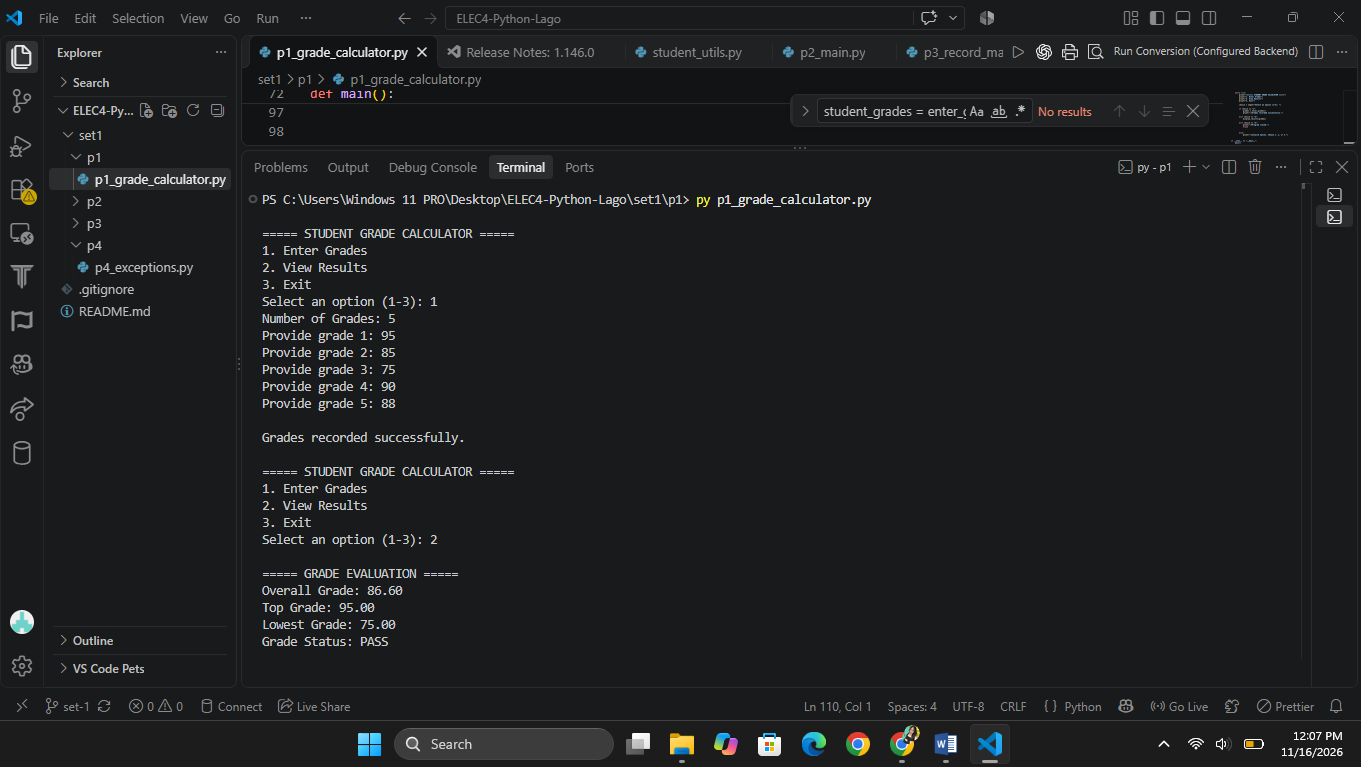
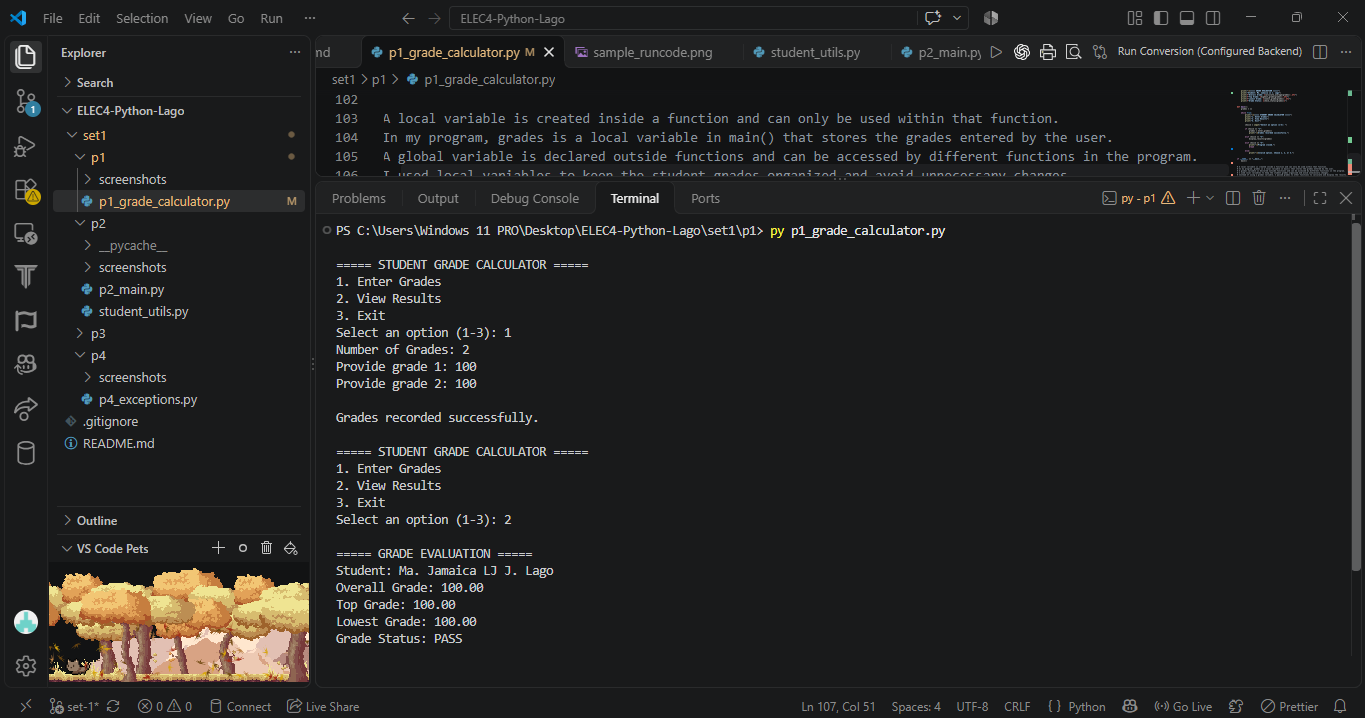
Set 1: finalize Python activity fixes and screenshots

diff --git a/set1/p3/p3_record_manager.py b/set1/p3/p3_record_manager.py
@@ -1,6 +1,7 @@
-
+# Name: Ma. Jamaica LJ J. Lago
+# Section: IV-BSIT A
 # Activity: P3 - Student Record Manager
-# Commit 2: Add Students and Prevent Duplicates
+# Date: November 19, 2026
 
 # List for storing student names
 students = []
@@ -49,7 +50,6 @@ def remove_student():
             return
 
 
-
 # Function to search for a student
 def search_student():
     search = " ".join(input("Enter student name to search: ").split()).casefold()
@@ -65,6 +65,7 @@ def search_student():
             matches.append(name)
 
     print("\n===== SEARCH RESULTS =====")
+    print("Program by: Ma. Jamaica LJ J. Lago")
 
     if len(matches) == 0:
         print("No matching students found.")
@@ -75,7 +76,6 @@ def search_student():
             print(f"{number}. {name}")
 
     print(f"Total Matches: {len(matches)}")
-
 
 
 # Function to display all students
@@ -91,7 +91,6 @@ def display_students():
             print(f"{number}. {name}")
 
     print(f"Total Students: {len(students)}")
-
 
 
 # Main menu function
@@ -135,4 +134,3 @@ if __name__ == "__main__":
 # In this program, I used a list to store and display student names.
 # I used a set to prevent duplicate names regardless of capitalization.
 # Both collections help manage student records efficiently.
-

diff --git a/set1/p4/p4_exceptions.py b/set1/p4/p4_exceptions.py
@@ -1,11 +1,12 @@
-
-# Activity: P4 - Safe Menu Program
-# Student: Ma. Jamaica LJ J. Lago
+# Name: Ma. Jamaica LJ J. Lago
 # Section: IV-BSIT A
-# Date: November 16, 2026
+# Activity: P4 - Safe Menu Program
+# Date: November 19, 2026
+
 
 def show_menu():
     print("\n===== SAFE MENU PROGRAM =====")
+    print("Student: Ma. Jamaica LJ J. Lago")
     print("1. Divide Two Numbers")
     print("2. Open a File")
     print("3. Exit")
@@ -17,7 +18,6 @@ def divide_numbers():
     try:
         num1 = float(input("Enter first number: "))
         num2 = float(input("Enter second number: "))
-
         result = num1 / num2
 
     except ValueError:
@@ -44,13 +44,16 @@ def open_file():
     except FileNotFoundError:
         print("Error: The specified file was not found.")
 
+    except (OSError, ValueError):
+        print("Error: Unable to read the specified file.")
+
     else:
         print("\n===== FILE CONTENT =====")
         print(content)
         print("========================")
 
     finally:
-        print("File operation completed.")
+        print("File read attempt finished.")
 
 
 # Main function for the menu-driven program

diff --git a/set1/p2/p2_main.py b/set1/p2/p2_main.py
@@ -1,11 +1,12 @@
-
-# Activity P2 - Custom Module: student_utils
+# Name: Ma. Jamaica LJ J. Lago
+# Section: IV-BSIT A
+# Activity: P2 - Custom Module: student_utils
+# Date: November 19, 2026
 # Main Program - Student Grade Report
 
 import student_utils
 from student_utils import get_highest_grade, get_lowest_grade
 from datetime import datetime
-
 
 
 def enter_grades():
@@ -37,6 +38,7 @@ def enter_grades():
 
     return grades
 
+
 def display_report(grades):
     average = student_utils.calculate_average(grades)
     status = student_utils.check_pass_fail(average)
@@ -46,8 +48,9 @@ def display_report(grades):
     date_generated = datetime.now().strftime("%B %d, %Y - %I:%M:%S %p")
 
     print("\n================================")
-    print("       STUDENT GRADE REPORT          ")
+    print("       STUDENT GRADE REPORT")
     print("================================")
+    print("Student: Ma. Jamaica LJ J. Lago")
     print(f"Provided Grades: {grades}")
     print(f"Average Grade  : {average:.2f}")
     print(f"Grade Status   : {status}")

diff --git a/set1/p1/p1_grade_calculator.py b/set1/p1/p1_grade_calculator.py
@@ -1,7 +1,7 @@
-#Name: Ma. Jamaica LJ J. Lago
-#Section: IV-BSIT A
-#Activity: P1 - Student Grade Calculator
-#Date: November 15, 2026
+# Name: Ma. Jamaica LJ J. Lago
+# Section: IV-BSIT A
+# Activity: P1 - Student Grade Calculator
+# Date: November 15, 2026
 
 
 def enter_grades():
@@ -63,6 +63,7 @@ def display_results(grades):
         return
 
     print("\n===== GRADE EVALUATION =====")
+    print("Student: Ma. Jamaica LJ J. Lago")
     print(f"Overall Grade: {calculate_average(grades):.2f}")
     print(f"Top Grade: {highest_grade(grades):.2f}")
     print(f"Lowest Grade: {lowest_grade(grades):.2f}")
@@ -91,15 +92,12 @@ def main():
             print("\nProgram closed.")
             break
 
-       
         else:
             print("\nInvalid option. Choose 1, 2, or 3.")
 
 
 if __name__ == "__main__":
     main()
-
-
 
 
 # A local variable is created inside a function and can only be used within that function.

diff --git a/set1/p2/student_utils.py b/set1/p2/student_utils.py
@@ -1,5 +1,7 @@
-
-# Activity P2 - Custom Module: student_utils
+# Name: Ma. Jamaica LJ J. Lago
+# Section: IV-BSIT A
+# Activity: P2 - Custom Module: student_utils
+# Date: November 19, 2026
 # Description: Reusable functions for student grades
 
 
